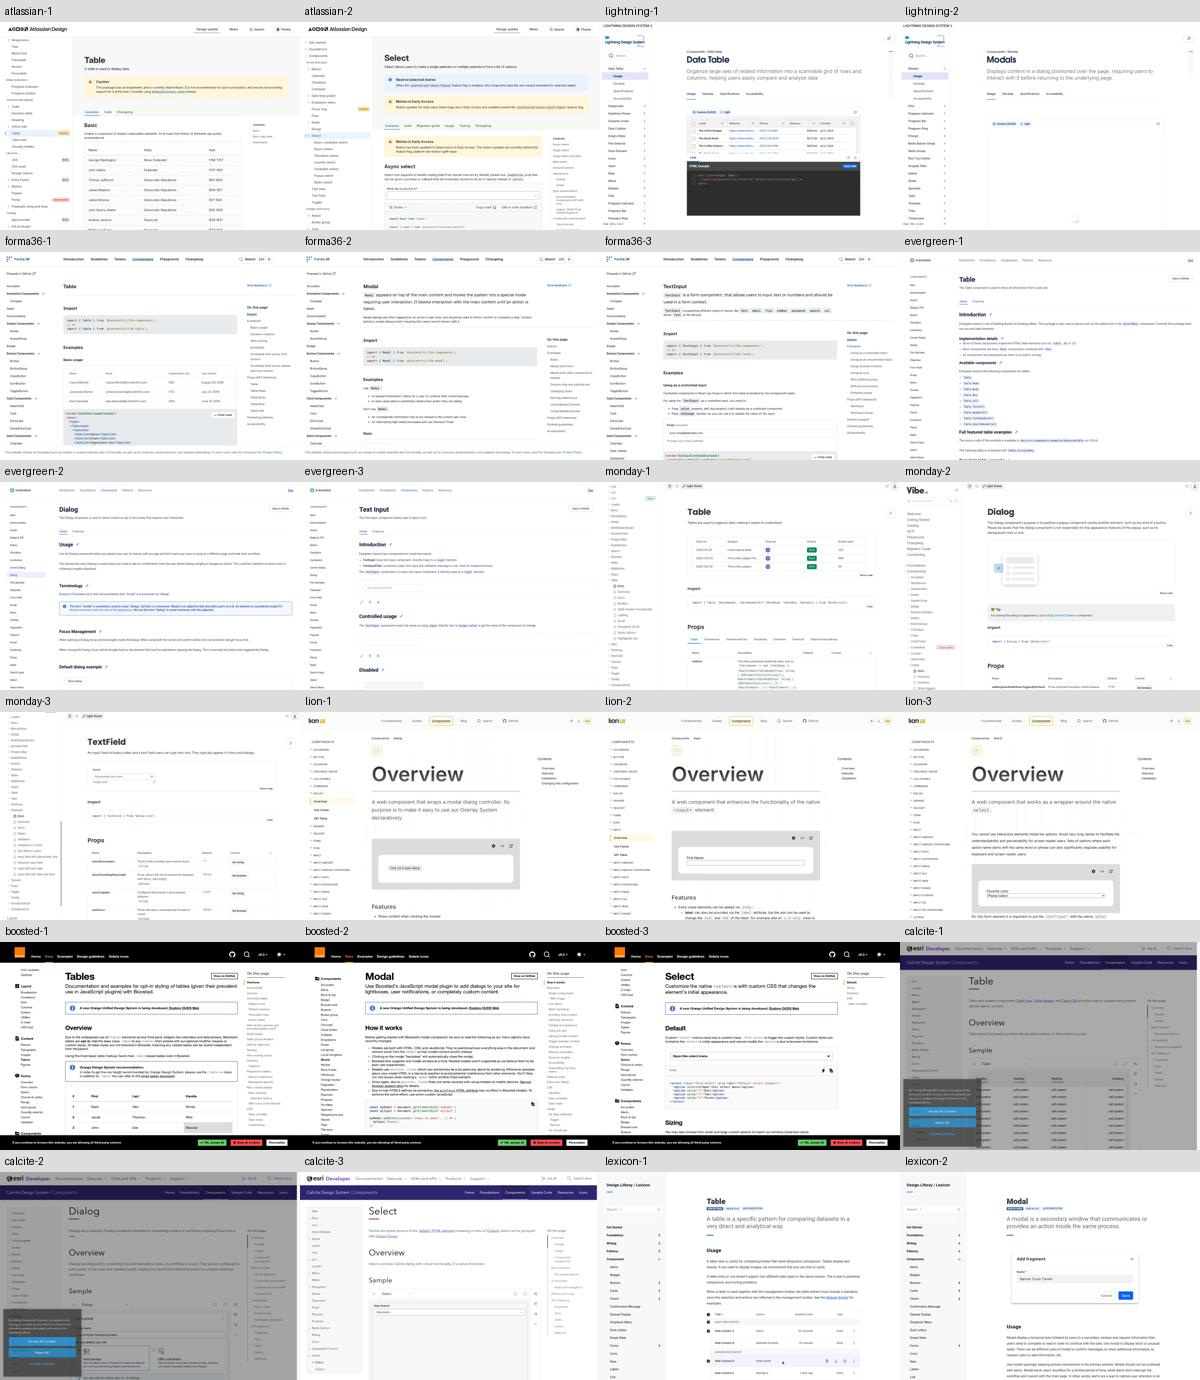
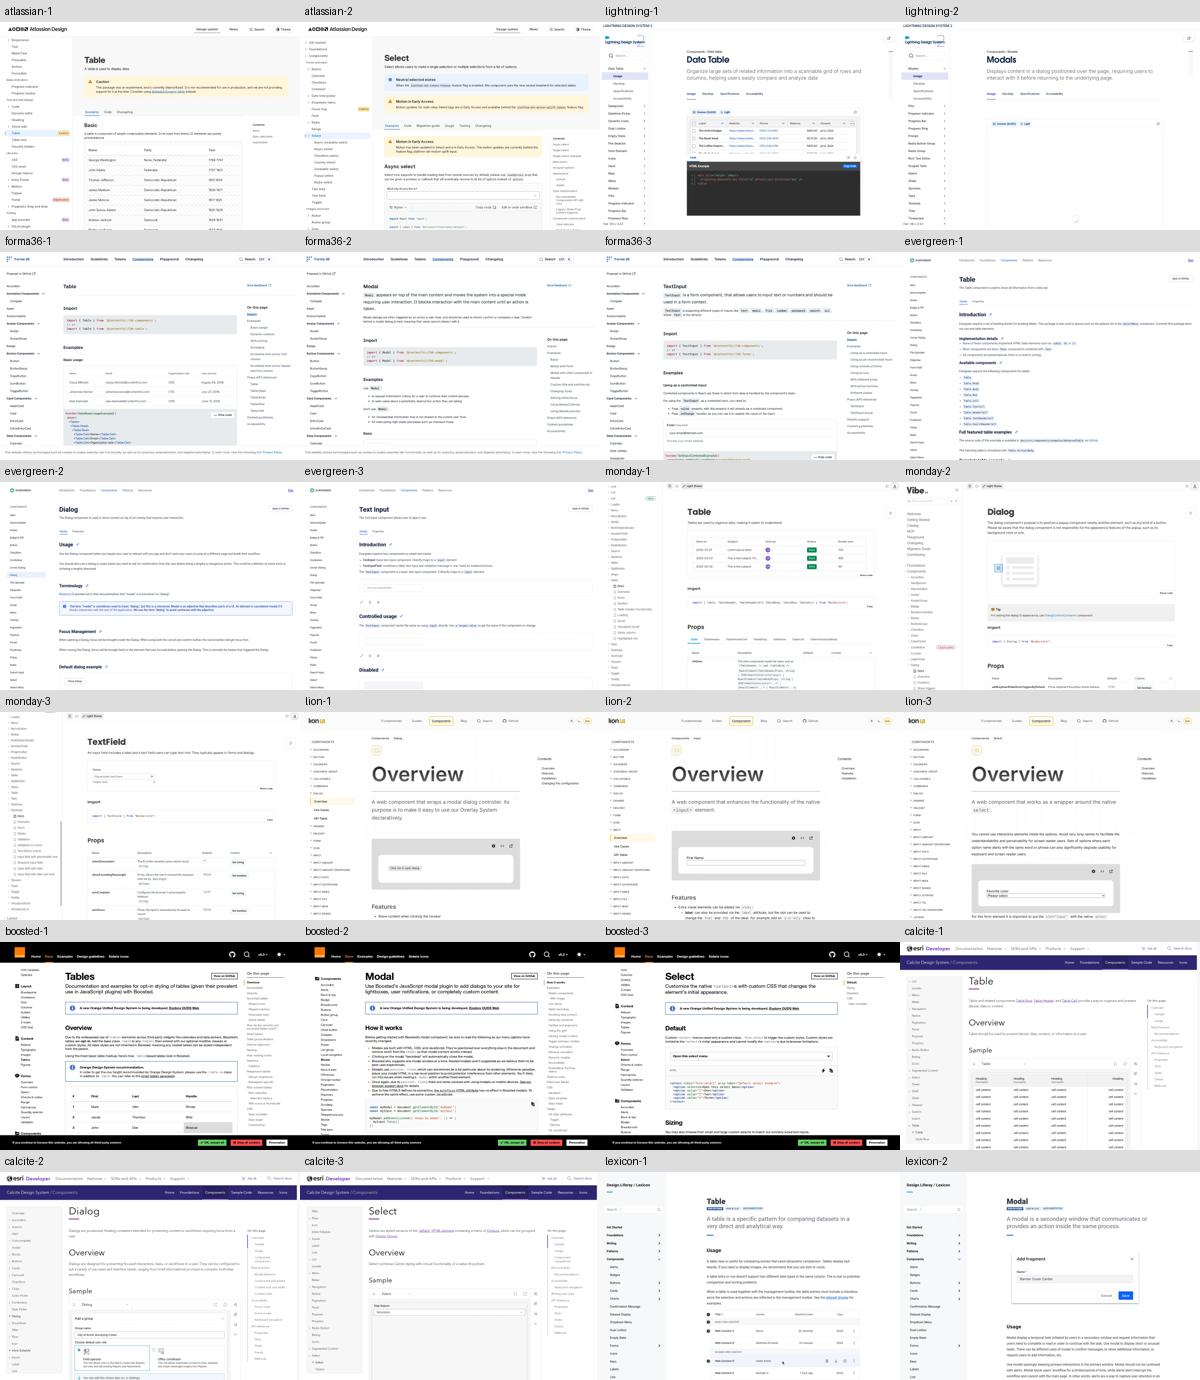
Record production verification for expanded catalog and feature descriptions

Changed region(s): [[0.0, 0.8413, 0.2467, 1.0], [0.74, 0.6855, 1.0, 0.8413]]

diff --git a/docs/design-qa.md b/docs/design-qa.md
@@ -54,3 +54,5 @@ Descriptions state practical uses without unsupported rankings or claims. Every 
 Five ambiguous or inaccessible candidates are recorded in `new-batch-scope.json` with reasons: Goldman Sachs, Pipedrive Convention UI, TELUS Allium, Codmon and the unspecified LINE/Yahoo system. No unrelated API documentation or older replacement system was added under those names.
 
 All 16 browser tests passed locally, including all 67 static paths, bilingual description rendering, mobile scroll restoration, language persistence and touch navigation. Screenshot capture reported no console errors.
+
+All 16 tests also passed against the production domain after deployment to https://a835ccf8.design-system-catalog-925.pages.dev. Final contact sheets include the refreshed Calcite captures after dismissing cookie notices.
